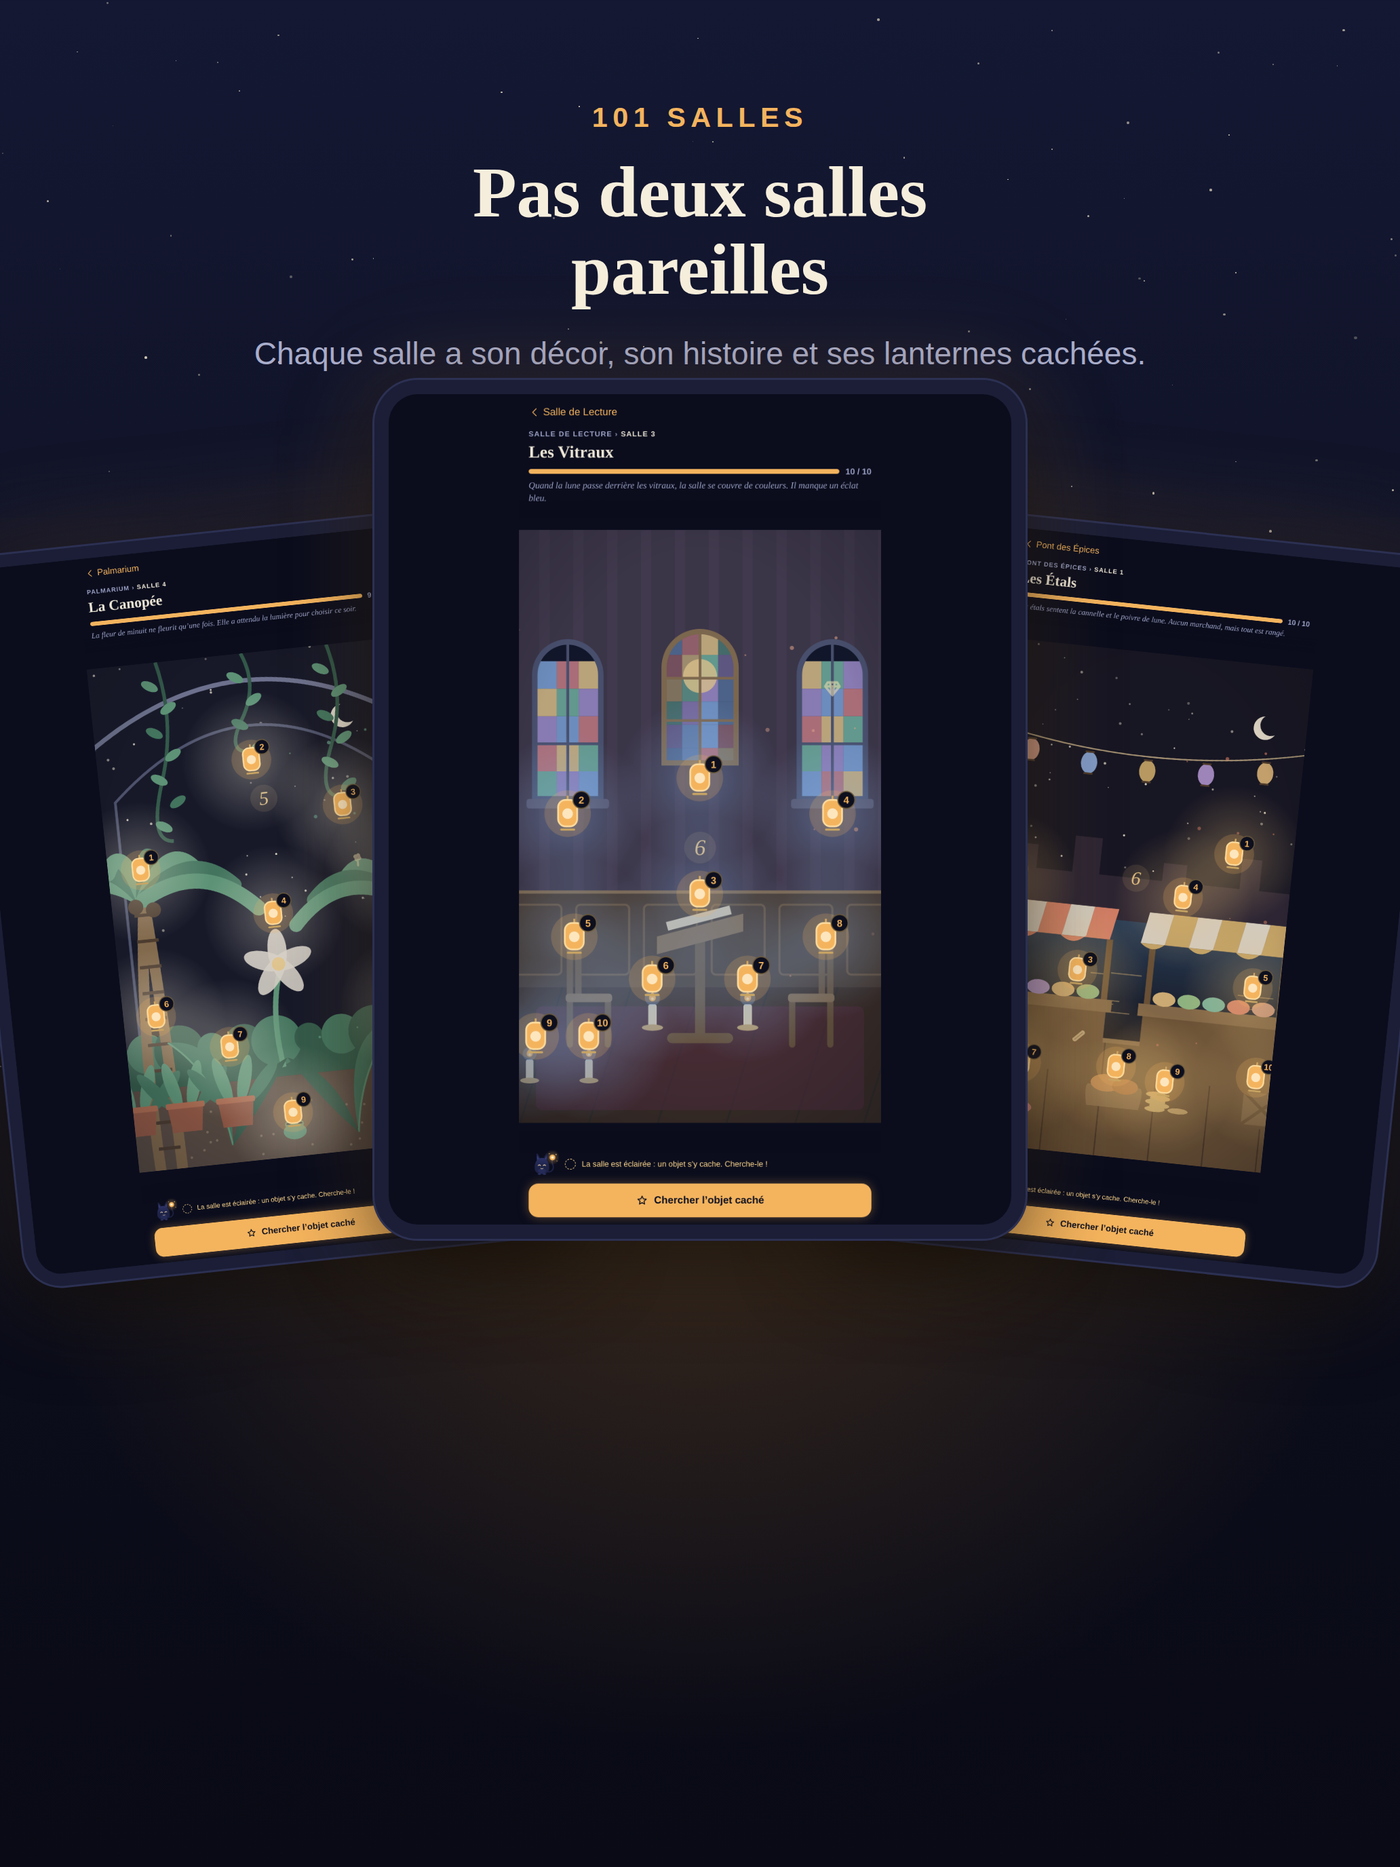
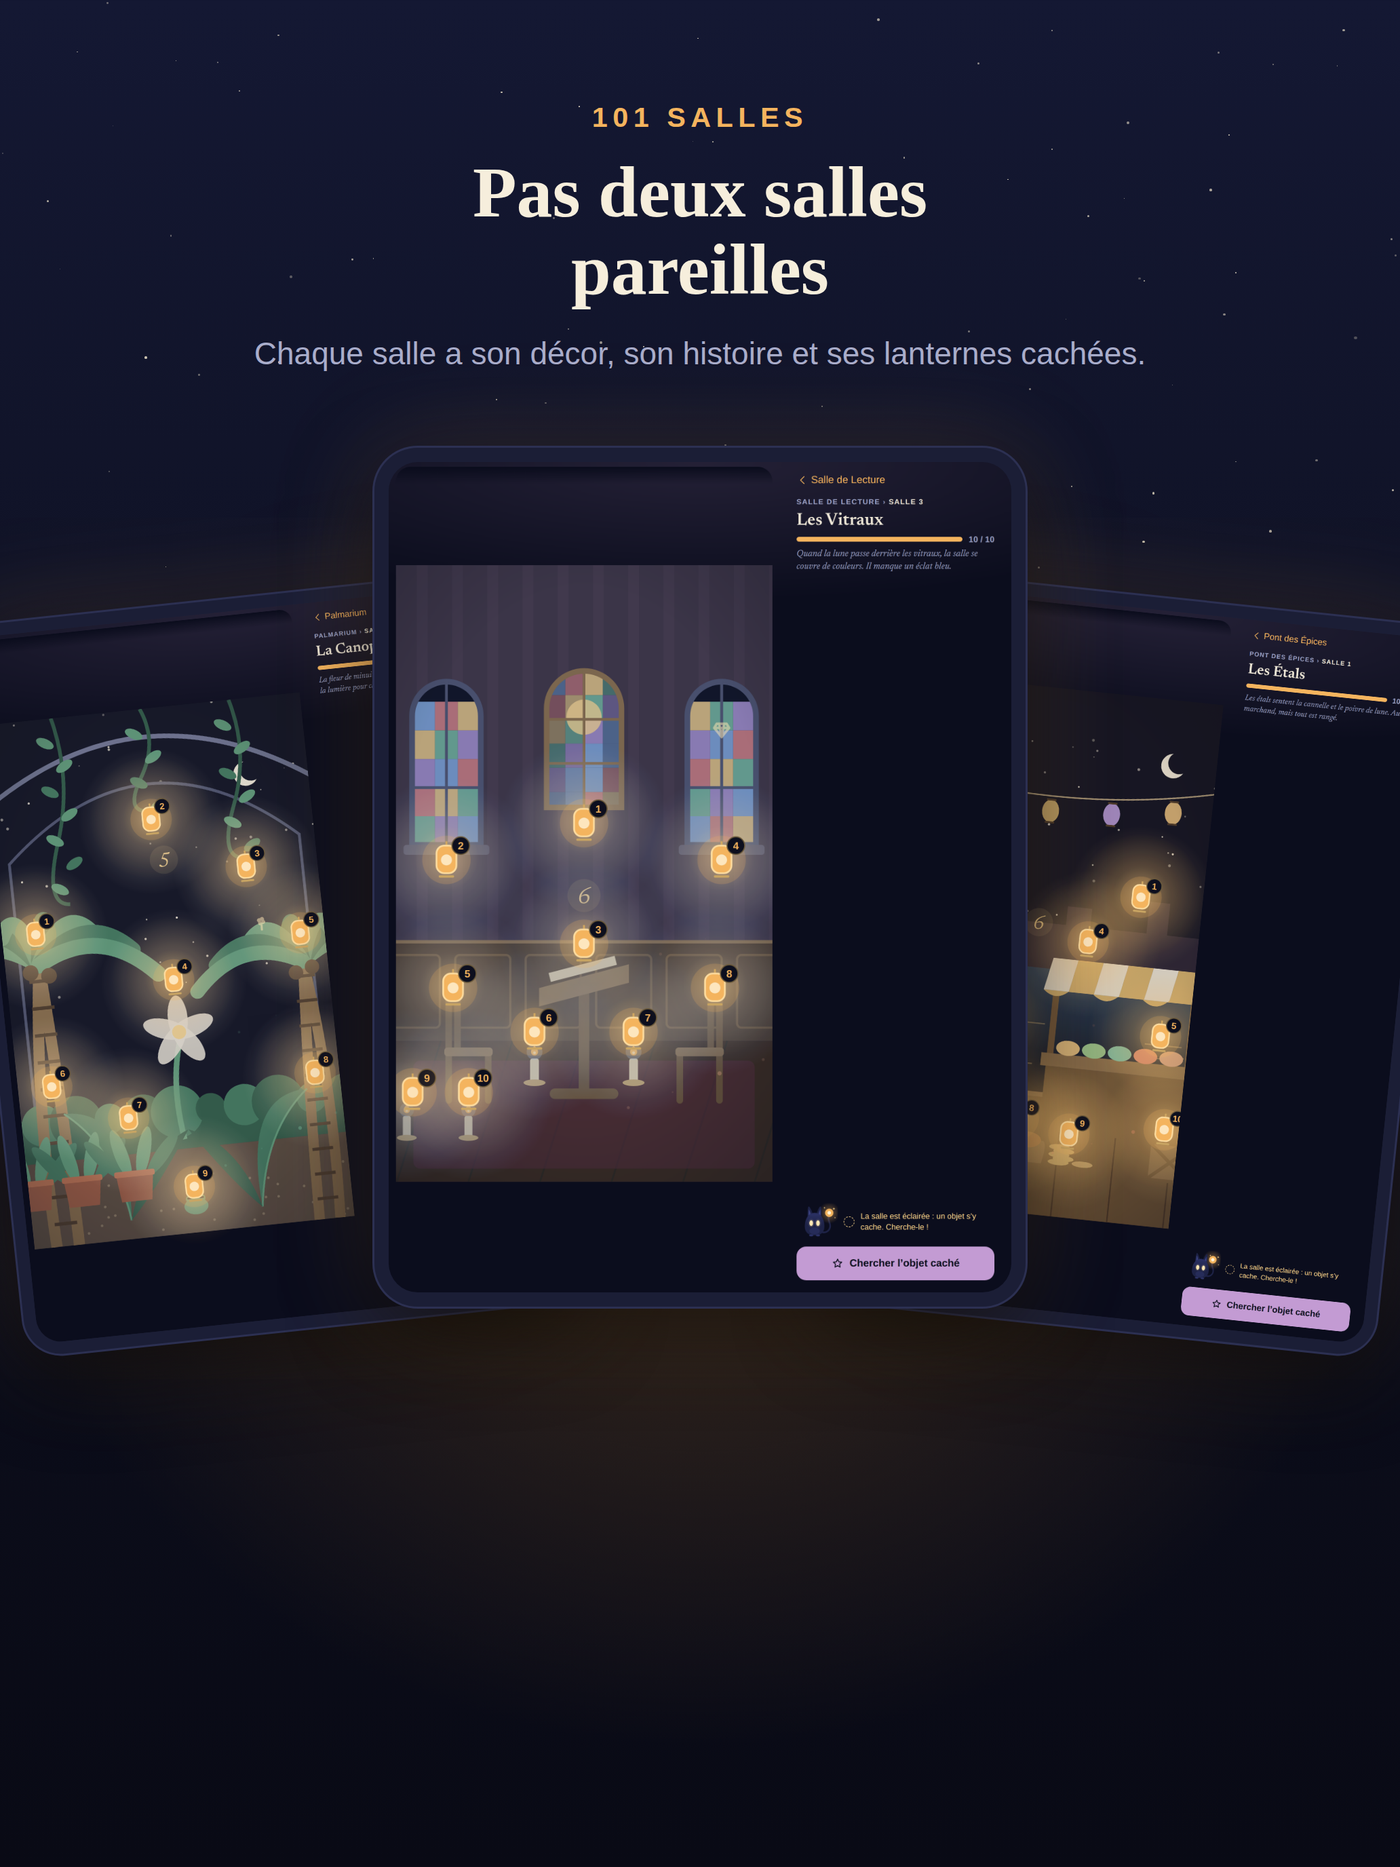
Refait les images App Store (iPhone 6,9" et iPad 13")
Dix images par appareil, toutes tirées de vraies captures : les trois
événements, le mode Libre, la maison et les 26 familles en plus. Le
script de capture (un seul désormais) cherche les énigmes par famille
dans le contenu, ne dépend plus de leur place dans les salles, fixe la
date et passe les présentations de famille.

Claude-Session: https://claude.ai/code/session_01XZjniMn9yRispNXbt6GEM1

Changed region(s): [[0.0, 0.2188, 1.0, 0.75], [0.031, 0.7188, 0.093, 0.75], [0.7132, 0.375, 0.7442, 0.4062]]

diff --git a/tools/store/capture.js b/tools/store/capture.js
@@ -1,61 +1,115 @@
-// Captures real app screens for the store pages (430 × 932 @3x).
+// Captures real app screens for the store pages (iPhone: 430 × 932 @3x; iPad: W=1032 H=1376 DSF=2 PREFIX=ipad).
+// The puzzles are looked up in the content by family, so a rebalanced Forge does not break it.
 const fs = require('fs');
 const { chromium } = require(process.env.PLAYWRIGHT || 'playwright');
 const W = +(process.env.W || 430), H = +(process.env.H || 932), DSF = +(process.env.DSF || 3), P = process.env.PREFIX || 'app';
 (async () => {
   const b = await chromium.launch(process.env.CHROMIUM ? { executablePath: process.env.CHROMIUM } : {});
-  const page = async (saveFile) => {
-    const ctx = await b.newContext({ viewport: { width: W, height: H }, deviceScaleFactor: DSF });
-    const save = fs.readFileSync(saveFile, 'utf8');
-    await ctx.addInitScript((s) => { if (!localStorage.getItem('fs:lampion/save.json')) localStorage.setItem('fs:lampion/save.json', s); }, save);
+  const page = async (saveFile, at) => {
+    const ctx = await b.newContext({ locale: 'fr-FR', viewport: { width: W, height: H }, deviceScaleFactor: DSF });
+    await ctx.addInitScript((s) => { if (!localStorage.getItem('fs:lampion/save.json')) localStorage.setItem('fs:lampion/save.json', s); }, fs.readFileSync(saveFile, 'utf8'));
+    await ctx.addInitScript(() => setInterval(() => { const el = [...document.querySelectorAll('div')].find((d) => d.childElementCount === 0 && /^C.est parti$/.test(d.textContent)); if (el) el.click(); }, 400));
     const pg = await ctx.newPage();
-    // Achievements of the made-up save are credited at the first launch: let their toast pass once.
+    await pg.clock.install({ time: at });
     await pg.goto('http://localhost:8768/'); await pg.waitForTimeout(9000);
     return pg;
   };
-  const vis = (pg, l) => l.filter({ visible: true });
+  const vis = (l) => l.filter({ visible: true });
   const shot = (pg, n) => pg.screenshot({ path: `store/${P}-${n}.png` });
-  const open = async (pg, room, n, wait = 1500) => { await pg.goto('http://localhost:8768/room/' + room); await pg.waitForTimeout(2500); await vis(pg, pg.getByLabel(new RegExp('^Lanterne ' + n + ' sur'))).first().click(); await pg.waitForTimeout(700); await vis(pg, pg.getByText(/^(Allumer|Rejouer|Reprendre)$/)).first().click(); await pg.waitForTimeout(wait); };
+  const save = __dirname + '/save800.json';
+  const PACK = require(__dirname + '/../../app/src/content/generated/pack.json');
+  const LIT = new Set(Object.keys(require(save).state.solved));
+  /** A lantern of this family already lit in the save (room and number), preferably a harder one in a later district. */
+  const find = (code, minTier = 2, district) => {
+    for (const d of PACK.world.districts.slice().reverse()) {
+      if (district && d.id !== district) continue;
+      for (const b of d.buildings) for (const r of b.rooms) {
+        const k = r.lanterns.findIndex((l) => l.family === code && l.tier >= minTier && LIT.has(l.id));
+        if (k >= 0) return [r.id, k + 1];
+      }
+    }
+    return minTier > 0 ? find(code, minTier - 1, district) : null;
+  };
+  const open = async (pg, code, wait = 1500, minTier = 2) => {
+    const [room, n] = find(code, minTier);
+    await pg.goto('http://localhost:8768/room/' + room); await pg.waitForTimeout(2500);
+    await vis(pg.getByLabel(new RegExp('^Lanterne ' + n + ' sur'))).first().click(); await pg.waitForTimeout(700);
+    await vis(pg.getByText(/^(Allumer|Rejouer|Reprendre)$/)).first().click(); await pg.waitForTimeout(wait);
+  };
+  const night = new Date(2026, 8, 30, 20, 30);
 
-  let pg = await page(__dirname + '/saveMock.json');
-  await pg.goto('http://localhost:8768/'); await pg.waitForTimeout(3500); await shot(pg, 'home');
-  await pg.goto('http://localhost:8768/map'); await pg.waitForTimeout(3000); await shot(pg, 'map');
-  await pg.goto('http://localhost:8768/room/horlo.b1.r2'); await pg.waitForTimeout(3000); await shot(pg, 'room-etabli');
-  await pg.goto('http://localhost:8768/nilo'); await pg.waitForTimeout(3000); await shot(pg, 'nilo');
-  await pg.goto('http://localhost:8768/daily'); await pg.waitForTimeout(3000); await shot(pg, 'daily');
-  await pg.goto('http://localhost:8768/district/horlo'); await pg.waitForTimeout(3000); await shot(pg, 'district');
-  await pg.context().close();
-
-  pg = await page(__dirname + '/save800.json');
-  for (const r of ['serre.b4.r4', 'marche.b1.r1', 'theatre.b4.r4', 'obs.b2.r1', 'biblio.b4.r3', 'serre.b2.r4']) { await pg.goto('http://localhost:8768/room/' + r); await pg.waitForTimeout(3000); await shot(pg, 'room-' + r); }
-  // Vitraux, a few filters set.
-  await open(pg, 'theatre.b3.r4', 7);
-  const f = vis(pg, pg.getByLabel(/Toucher pour changer\.$/));
-  for (const i of [0, 0, 2, 3, 3, 3]) { await f.nth(i).click().catch(() => {}); await pg.waitForTimeout(150); }
-  await pg.waitForTimeout(600); await shot(pg, 'vitraux');
-  await open(pg, 'marche.b4.r4', 4, 9000); await shot(pg, 'carillon');
-  await open(pg, 'serre.b4.r4', 6);
-  const pics = vis(pg, pg.getByLabel(/^Première image/));
-  const box = await pics.first().boundingBox();
-  await shot(pg, 'differences');
-  await open(pg, 'marche.b4.r4', 8); await shot(pg, 'etagere');
-  await open(pg, 'serre.b4.r4', 7); await vis(pg, pg.getByLabel(/^Ombre 2/)).first().click(); await pg.waitForTimeout(400); await shot(pg, 'ombres');
-  await open(pg, 'horlo.b4.r4', 7);
-  // Hints sheet.
-  await vis(pg, pg.getByLabel('Indices')).last().click(); await pg.waitForTimeout(900); await shot(pg, 'hints');
-  await vis(pg, pg.getByRole('button', { name: /^Gratuit$/ })).last().click().catch(() => {}); await pg.waitForTimeout(1200); await shot(pg, 'hint-shown');
-  // A success screen, caught while the lantern catches.
-  for (const price of ['5', '10', '20']) {
-    await vis(pg, pg.getByLabel('Indices')).last().click(); await pg.waitForTimeout(450);
-    const bt = vis(pg, pg.getByRole('button', { name: new RegExp('^' + price + '$') }));
-    if (await bt.count()) { await bt.last().click(); await pg.waitForTimeout(700); }
-    const back = vis(pg, pg.getByText('Revenir au puzzle')); if (await back.count()) { await back.last().click(); await pg.waitForTimeout(300); }
-    if (pg.url().includes('success')) break;
+  // The first screens, with the mock-up's progression (184 lights).
+  {
+    const pg = await page(__dirname + '/saveMock.json', night);
+    for (const [n, path] of [['home', '/'], ['map', '/map'], ['nilo', '/nilo'], ['daily', '/daily'], ['district', '/district/horlo'], ['room-etabli', '/room/horlo.b1.r2']]) { await pg.goto('http://localhost:8768' + path); await pg.waitForTimeout(3500); await shot(pg, n); }
+    // A real first success: a Carillon of the Tour du Carillon, its melody played back (read from the content).
+    const room = PACK.world.districts.find((d) => d.id === 'horlo').buildings[1].rooms[0];
+    const MOCK = new Set(Object.keys(require(__dirname + '/saveMock.json').state.solved));
+    const k = room.lanterns.findIndex((l) => l.family === 'CR' && !MOCK.has(l.id));
+    const cr = PACK.puzzles[room.lanterns[k].id].p;
+    await pg.goto('http://localhost:8768/room/' + room.id); await pg.waitForTimeout(2500);
+    await vis(pg.getByLabel(new RegExp('^Lanterne ' + (k + 1) + ' sur'))).first().click(); await pg.waitForTimeout(700);
+    await vis(pg.getByText(/^(Allumer|Reprendre)$/)).first().click(); await pg.waitForTimeout(7000);
+    for (const bell of (cr.reverse ? cr.melody.slice().reverse() : cr.melody)) { await vis(pg.getByLabel('Cloche ' + (bell + 1))).first().click(); await pg.waitForTimeout(500); }
+    await pg.waitForTimeout(1800); await shot(pg, 'success');
+    await pg.context().close();
   }
-  await pg.waitForTimeout(1500); await shot(pg, 'success');
-  await pg.goto('http://localhost:8768/building/biblio.b1'); await pg.waitForTimeout(2500);
-  await vis(pg, pg.getByLabel(/^Lanterne-clé/)).first().click(); await pg.waitForTimeout(1800); await shot(pg, 'seal');
-  await pg.goto('http://localhost:8768/carnet'); await pg.waitForTimeout(2500); await shot(pg, 'carnet');
-  await b.close();
-  console.log('done');
+
+  // An advanced game (800 lights): rooms and puzzles.
+  {
+    const pg = await page(save, night);
+    for (const r of ['serre.b4.r4', 'biblio.b4.r3', 'marche.b1.r1']) { await pg.goto('http://localhost:8768/room/' + r); await pg.waitForTimeout(6000); await shot(pg, 'room-' + r); }
+    // Vitraux, as it opens (the achievement toasts of the made-up save have passed).
+    await open(pg, 'VI', 6000); await shot(pg, 'vitraux');
+    await open(pg, 'CR', 9000); await shot(pg, 'carillon');
+    await open(pg, 'DI'); await shot(pg, 'differences');
+    await open(pg, 'OM'); await vis(pg.getByLabel(/^Ombre 2/)).first().click().catch(() => {}); await pg.waitForTimeout(400); await shot(pg, 'ombres');
+    await open(pg, 'PA'); await shot(pg, 'passerelles');
+    await open(pg, 'RU'); await shot(pg, 'rubans');
+    // Hints, then a success caught while the lantern catches.
+    await open(pg, 'EN');
+    await vis(pg.getByLabel('Indices')).last().click(); await pg.waitForTimeout(900); await shot(pg, 'hints');
+    await vis(pg.getByRole('button', { name: /^Gratuit$/ })).last().click().catch(() => {}); await pg.waitForTimeout(1200); await shot(pg, 'hint-shown');
+    const closeSheet = async () => { const back = vis(pg.getByText('Revenir au puzzle')); if (await back.count()) { await back.last().click({ force: true, timeout: 3000 }).catch(() => {}); await pg.waitForTimeout(700); } };
+    for (let k = 0; k < 6 && !pg.url().includes('success'); k++) {
+      await closeSheet();
+      await vis(pg.getByLabel('Indices')).last().click({ timeout: 5000 }).catch(() => {}); await pg.waitForTimeout(450);
+      const bt = vis(pg.getByLabel(/^(Éclairage|Solution)/));
+      if (await bt.count()) { await bt.last().click(); await pg.waitForTimeout(700); }
+      const back = vis(pg.getByText('Revenir au puzzle')); if (await back.count()) { await back.last().click({ force: true, timeout: 3000 }).catch(() => {}); await pg.waitForTimeout(600); }
+    }
+    await pg.goto('http://localhost:8768/building/biblio.b1'); await pg.waitForTimeout(2500);
+    await vis(pg.getByLabel(/^Lanterne-clé/)).first().click().catch(() => {}); await pg.waitForTimeout(1800); await shot(pg, 'seal');
+    await pg.goto('http://localhost:8768/carnet'); await pg.waitForTimeout(2500); await shot(pg, 'carnet');
+    await pg.context().close();
+  }
+
+  // The three events, each on one of its evenings.
+  for (const [name, at] of [['lanternes', new Date(2027, 2, 30, 20, 30)], ['halloween', new Date(2026, 9, 28, 20, 30)], ['noel', new Date(2026, 11, 21, 20, 30)]]) {
+    const pg = await page(save, at);
+    await pg.goto('http://localhost:8768/event'); await pg.waitForTimeout(3500); await shot(pg, 'event-' + name);
+    if (name === 'lanternes') { await pg.goto('http://localhost:8768/'); await pg.waitForTimeout(3500); await shot(pg, 'home-spring'); }
+    await pg.context().close();
+  }
+
+  const pg = await page(save, night);
+  // The house: objects found in the Phare, some on its shelves (seeded, as a player would have done).
+  await pg.evaluate((ROOMS) => {
+    const rooms = ROOMS;
+    const side = JSON.parse(localStorage.getItem('fs:lampion/profile.json') || '{}');
+    side.profile = { ...(side.profile || {}), picked: rooms, house: { name: 'La maison du quai', shelf: [rooms[0], null, rooms[2], rooms[3], rooms[5], null, rooms[6], rooms[7]], decor: { rug: 'rug.blue', painting: 'painting.phare', lamp: 'lamp.brass', plant: 'plant.glow' } } };
+    localStorage.setItem('fs:lampion/profile.json', JSON.stringify(side));
+  }, ['phare.b1.r1', 'phare.b1.r2', 'phare.b1.r3', 'phare.b1.r4', 'biblio.b1.r1', 'biblio.b1.r2', 'biblio.b1.r3', 'biblio.b2.r1']);
+  await pg.goto('http://localhost:8768/house'); await pg.waitForTimeout(3500); await shot(pg, 'house');
+  // The mode Libre, then a Constellations sky with a few stars.
+  await pg.goto('http://localhost:8768/free'); await pg.waitForTimeout(2500);
+  await vis(pg.getByRole('radio', { name: 'Constellations' })).first().click(); await pg.waitForTimeout(400);
+  await vis(pg.getByRole('radio').filter({ hasText: 'Flamme' })).first().click(); await pg.waitForTimeout(400);
+  await shot(pg, 'free');
+  await vis(pg.getByText('Jouer', { exact: true })).first().click(); await pg.waitForTimeout(3500);
+  await vis(pg.getByLabel('Indices')).last().click(); await pg.waitForTimeout(600);
+  await vis(pg.getByLabel(/^Éclairage/)).first().click().catch(() => {}); await pg.waitForTimeout(800);
+  const back = vis(pg.getByText('Revenir au puzzle')); if (await back.count()) { await back.last().click(); await pg.waitForTimeout(600); }
+  await shot(pg, 'constellations');
+  await b.close(); console.log('done');
 })().catch((e) => { console.error('FAIL', e.message.slice(0, 400)); process.exit(1); });

diff --git a/tools/store/compose.js b/tools/store/compose.js
@@ -10,11 +10,12 @@ const SLIDES = [
   { k: 'Une ville à réveiller', t: 'Huit quartiers,<br>une seule nuit', s: 'Du Phare à l’Observatoire, chaque lumière rendue réveille un peu plus la ville.', shots: ['map'] },
   { k: '101 salles', t: 'Pas deux salles<br>pareilles', s: 'Chaque salle a son décor, son histoire et ses lanternes cachées.', shots: ['room-serre.b4.r4', 'room-biblio.b4.r3', 'room-marche.b1.r1'] },
   { k: 'Des énigmes justes', t: 'La logique,<br>jamais le hasard', s: 'Chaque puzzle se résout par le raisonnement. Pas de chrono, prends ton temps.', shots: ['vitraux'] },
-  { k: '17 familles d’énigmes', t: 'Écoute, observe,<br>déduis', s: 'Mélodies, vitraux, différences, ombres, étagères, miroirs, codes…', shots: ['carillon', 'differences', 'ombres'] },
+  { k: '26 familles d’énigmes', t: 'Écoute, observe,<br>déduis', s: 'Mélodies, vitraux, ombres, passerelles, rubans, constellations…', shots: ['carillon', 'passerelles', 'ombres'] },
   { k: 'Nilo', t: 'Un compagnon<br>qui veille sur toi', s: 'Nilo cligne, s’étonne, se réjouit… et murmure un indice quand tu bloques.', shots: ['nilo', 'hint-shown'] },
   { k: 'Plus qu’une lanterne', t: 'Objets cachés<br>et sceaux secrets', s: 'Fouille les décors, relève les chiffres des salles, ouvre les lanternes-clés.', shots: ['room-etabli', 'seal'] },
+  { k: 'Saisons et fêtes', t: 'Vesper vit<br>au fil de l’année', s: 'Printemps des Lanternes, Nuit des Citrouilles, Veillée de Vesper : trois rendez-vous chaque année.', shots: ['event-halloween', 'event-lanternes', 'event-noel'] },
   { k: 'Chaque soir', t: 'Un défi du soir,<br>le même pour tous', s: 'Une nouvelle énigme chaque jour, une série à entretenir, un carnet à remplir.', shots: ['daily', 'carnet'] },
-  { k: 'Rien que le jeu', t: 'Sans compte. Sans pub.<br>Sans pistage.', s: 'Tout reste sur ton appareil. Lampion se joue aussi hors ligne.', shots: ['success'] },
+  { k: 'Rien que le jeu', t: 'Sans compte. Sans pub.<br>Sans pistage.', s: 'Tout reste sur ton appareil. Mode Libre, maison à décorer, et tout se joue hors ligne.', shots: ['house', 'success', 'free'] },
 ];
 const stars = (() => { let s = 7, o = ''; const r = () => (s = (s * 16807) % 2147483647) / 2147483647; for (let i = 0; i < 140; i++) { const x = r() * 100, y = r() * 62, z = 1 + r() * 3.2, a = 0.25 + r() * 0.6; o += `<i style="left:${x}%;top:${y}%;width:${z}px;height:${z}px;opacity:${a}"></i>`; } return o; })();
 function phone(src, w, extra = '') {
@@ -23,7 +24,7 @@ function phone(src, w, extra = '') {
 }
 function html(sl) {
   const W = SIZE.w, H = SIZE.h, ipad = KIND === 'ipad';
-  const top = ipad ? 560 : 680;
+  const top = ipad ? 660 : 680;
   const n = sl.shots.length;
   let dev = '';
   const aspect = ipad ? 2752 / 2064 : 2796 / 1290;

diff --git a/tools/store/README.md b/tools/store/README.md
@@ -1,7 +1,7 @@
 # Images App Store
 
 Les images finales sont dans `store/iphone-6.9/` (1320 × 2868) et `store/ipad-13/` (2064 × 2752).
-Chaque image montre une vraie capture de l'app, avec une partie jouée à la main pour le carillon et le vitrail.
+Chaque image montre une vraie capture de l'app (rien n'est retouché). Le script cherche lui-même les énigmes de chaque famille dans le contenu, rejoue un vrai carillon pour l'écran de réussite, et fixe la date pour les trois événements.
 
 Pour les régénérer, depuis un dossier de travail :
 
@@ -9,11 +9,9 @@ Pour les régénérer, depuis un dossier de travail :
 cd app && npx expo export -p web --output-dir ../work/web && cd ../work && mkdir -p store/out
 node ../tools/store/spa.js web &            # sert le build sur http://localhost:8768
 node ../tools/store/capture.js               # captures iPhone 430 × 932 @3x → store/app-*.png
-node ../tools/store/capture2.js              # une vraie réussite (carillon) et un vitrail commencé
-node ../tools/store/capture3.js              # salles
-W=1032 H=1376 DSF=2 PREFIX=ipad node ../tools/store/capture.js   # idem pour l'iPad (et capture2, capture3)
-node ../tools/store/compose.js iphone        # → store/out/iphone-01…09.png
-node ../tools/store/compose.js ipad          # → store/out/ipad-01…09.png
+W=1032 H=1376 DSF=2 PREFIX=ipad node ../tools/store/capture.js   # idem pour l'iPad
+node ../tools/store/compose.js iphone        # → store/out/iphone-01…10.png
+node ../tools/store/compose.js ipad          # → store/out/ipad-01…10.png
 ```
 
 Il faut Playwright (`PLAYWRIGHT=/chemin/vers/playwright`, `CHROMIUM=/chemin/vers/chromium` si besoin).

diff --git a/store/FICHE_APP_STORE.md b/store/FICHE_APP_STORE.md
@@ -17,7 +17,7 @@ Les longueurs ont été vérifiées par rapport aux limites d'Apple.
 | Langues | Français, anglais |
 | Chiffrement (export) | Aucun (`ITSAppUsesNonExemptEncryption = false`, déjà dans `app.json`) |
 
-Captures déjà prêtes : `store/iphone-6.9/` (iPhone 6,9 pouces) et `store/ipad-13/` (iPad 13 pouces).
+Captures prêtes (10 par appareil, refaites avec les événements, le mode Libre, la maison et les 26 familles) : `store/iphone-6.9/` (iPhone 6,9 pouces, 1320 × 2868) et `store/ipad-13/` (iPad 13 pouces, 2064 × 2752). Pour les régénérer : `tools/store/README.md`.
 
 ---
 
